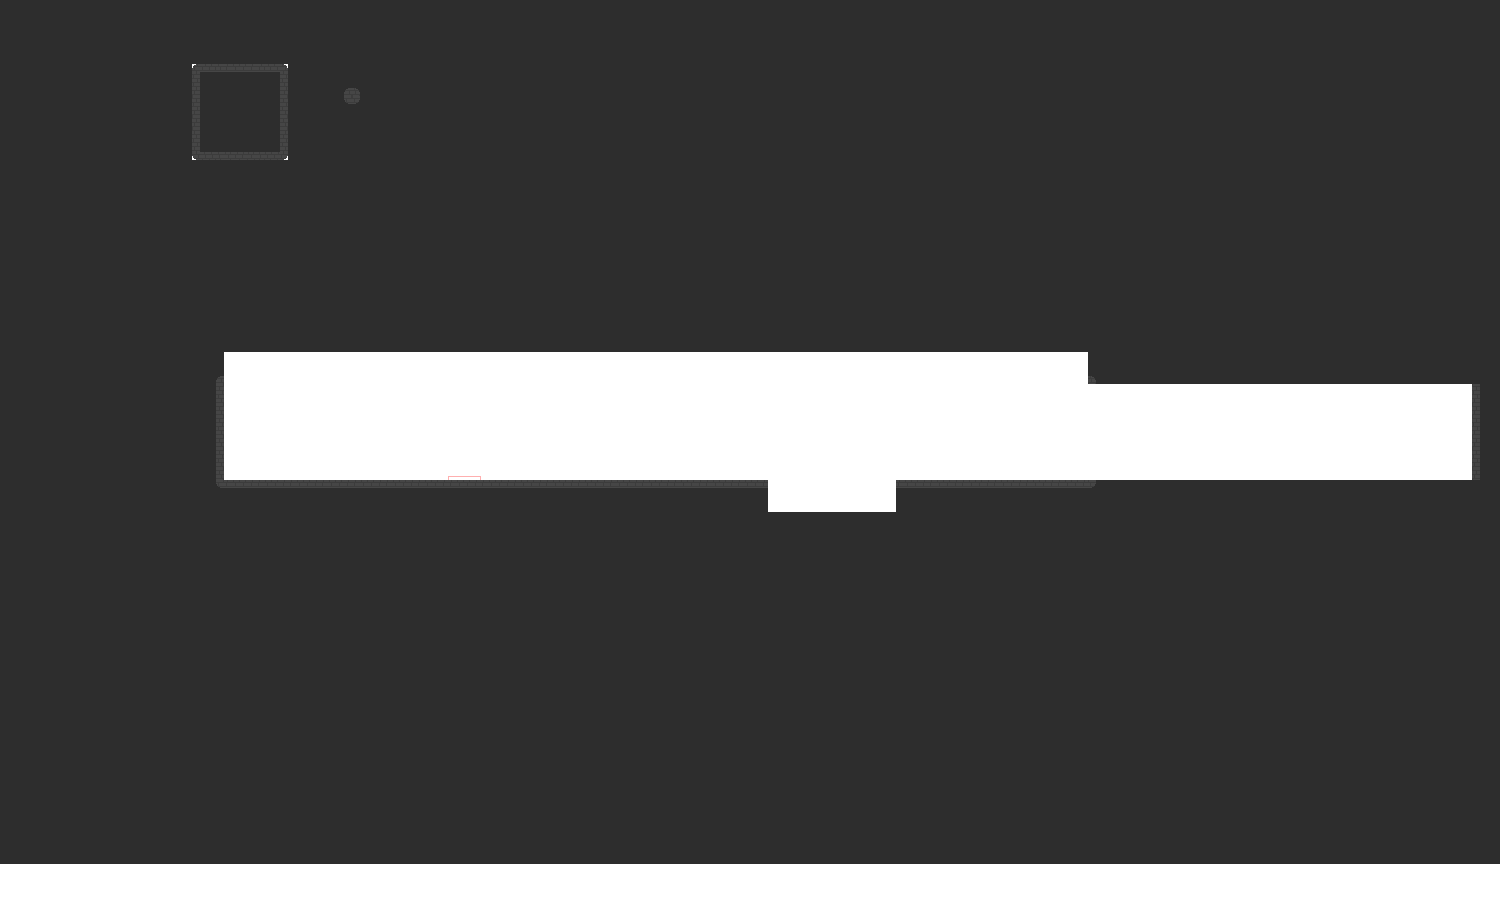
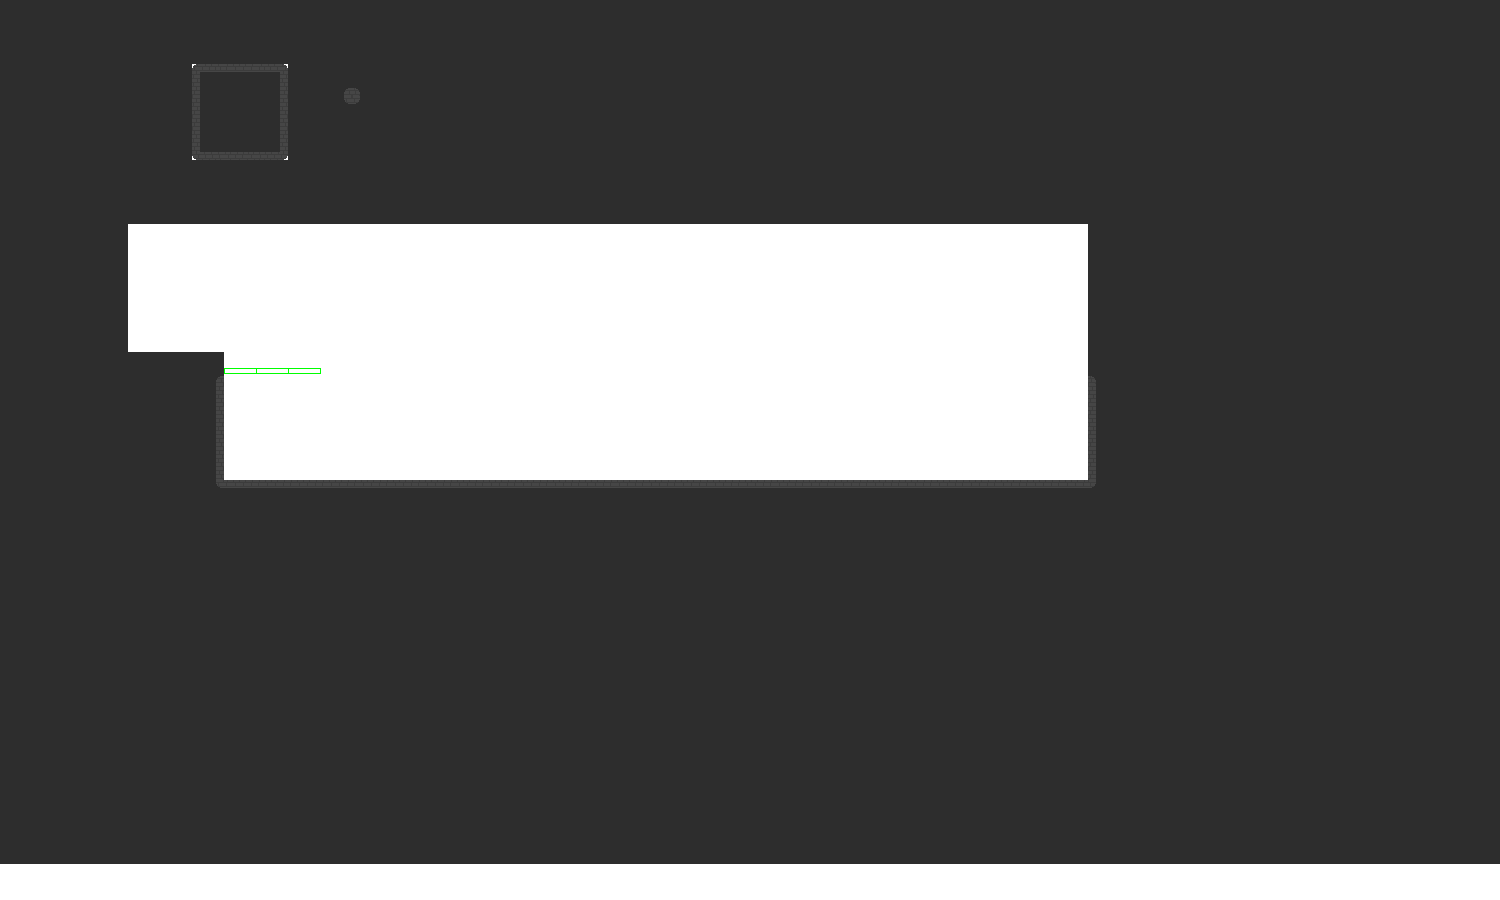
Started adding one way platforms. They can be added to any level and the player can walk on them. Next i need to make boxes touch the one way platform and have the player be able to press down to go through it

Changed region(s): [[0.0613, 0.2489, 0.736, 0.4044], [0.7053, 0.4044, 1.0, 0.56], [0.4907, 0.5289, 0.6133, 0.5911]]

diff --git a/src/LevelLayout.java b/src/LevelLayout.java
@@ -14,11 +14,11 @@ public class LevelLayout {
 
     private BufferedImage topLeftCorner, topRightCorner, bottomLeftCorner, bottomRightCorner, upWall, leftWall, rightWall, downWall, darkness, topLeftDarkness, topRightDarkness, bottomLeftDarkness, bottomRightDarkness;
     private BufferedImage combined;
-    private ArrayList<Rectangle> walls;
+    private ArrayList<Rectangle> walls, oneWayPlatforms;
     private String[][] levelData;
     private Engine engine;
     private ArrayList<Player> availableCharacters;
-    private boolean levelDone, swapped, resetting, paused;
+    private boolean levelDone, swapped, resetting;
     private int characterInControl;
     private ArrayList<Box> boxes;
     private HashMap<Opener, Door[]> openersAndDoors;
@@ -36,12 +36,12 @@ public class LevelLayout {
         levelDone = false;
         characterInControl = 0;
         swapped = false;
-        paused = false;
         boxes = new ArrayList<Box>();
         openersAndDoors = new HashMap<Opener, Door[]>();
         openers = new ArrayList<Opener>();
         doors = new ArrayList<Door>();
         spikes = new ArrayList<Spike>();
+        oneWayPlatforms = new ArrayList<Rectangle>();
         combined = new BufferedImage(1500, 900, BufferedImage.TYPE_INT_ARGB);
         setTileSet();
         setWalls();
@@ -75,7 +75,7 @@ public class LevelLayout {
         Graphics g = combined.getGraphics();
         walls = new ArrayList<Rectangle>();
         //make sure to put the things that won't be counted as walls here
-        String nonWallTiles = "pzekb/[|n^";
+        String nonWallTiles = "pzekb/[|n^<>-";
         for (int r = 0; r < 27; r++) {
             for (int c = 0; c < 47; c++) {
                 if (!nonWallTiles.contains(levelData[r][c]) && !levelData[r][c].contains("[") && !levelData[r][c].contains("/") && !levelData[r][c].contains("|")) {
@@ -148,6 +148,18 @@ public class LevelLayout {
                         g.drawRect(c * 32, r * 32 + 28, 32, 5);
                         g.setColor(Color.BLACK);
                         break;
+                    case "<", "-", ">":
+                        oneWayPlatforms.add(new Rectangle(c * 32, r * 32 + 16, 32, 5));
+                        g.setColor(Color.GREEN);
+                        g.drawRect(c * 32, r * 32 + 16, 32, 5);
+                        g.setColor(Color.BLACK);
+                        break;
+//                    case "-":
+//                        oneWayPlatforms.add(new OneWayPlatform(c * 32, r * 32 + 16, 1));
+//                        break;
+//                    case ">":
+//                        oneWayPlatforms.add(new OneWayPlatform(c * 32, r * 32 + 16, 1));
+//                        break;
                 }
                 if (levelData[r][c].contains("/")) {
                     openers.add(new Key(engine, levelData[r][c], c * 32 + 8, r * 32 + 9));
@@ -278,13 +290,6 @@ public class LevelLayout {
             }
         }
 
-        if (paused) {
-            System.out.println("Here");
-            g.setColor(Color.WHITE);
-            //This is temp will need to have image of text
-            g.setFont(new Font("Pixelfy Sans", Font.PLAIN, 60));
-            g.drawString("Press R to Reset", 500, 700);
-        }
 //        System.out.println("QWE");
     }
 
@@ -345,11 +350,8 @@ public class LevelLayout {
         return spikes;
     }
 
-    public boolean isPaused() {
-        return paused;
-    }
 
-    public void setPaused(boolean paused) {
-        this.paused = paused;
+    public ArrayList<Rectangle> getOneWayPlatforms() {
+        return oneWayPlatforms;
     }
 }

diff --git a/src/Player.java b/src/Player.java
@@ -99,7 +99,7 @@ public class Player implements KeyListener{
         }
 
         //if touching platform send player to top of the platform
-        if (touchingPlatform(engine.getLevelLayout().getWalls()) || touchingBox(engine.getLevelLayout().getBoxes()) || onPlayer(engine.getLevelLayout().getAvailableCharacters()) || onTopOfDoor(engine.getLevelLayout().getDoors())) {
+        if (touchingPlatform(engine.getLevelLayout().getWalls()) || touchingBox(engine.getLevelLayout().getBoxes()) || onPlayer(engine.getLevelLayout().getAvailableCharacters()) || onTopOfDoor(engine.getLevelLayout().getDoors()) || onOneWayPlatform(engine.getLevelLayout().getOneWayPlatforms())) {
             if (inAir) {
                 y = (int) (onCollisionBox.getY() - collisionBox.getHeight());
                 velocity = 4;
@@ -239,7 +239,15 @@ public class Player implements KeyListener{
     }
 
 
-    //Don't know if true but the player can most likely walk through walls if the wall is smaller than the player and the wall is at player's chest level
+    public boolean onOneWayPlatform(ArrayList<Rectangle> oneWayPlatforms) {
+        for (Rectangle platform: oneWayPlatforms) {
+            if (platform.contains(x, y + collisionBox.getHeight())) {
+                onCollisionBox = platform;
+                return true;
+            }
+        }
+        return false;
+    }
     public boolean touchingPlatform(ArrayList<Rectangle> rectangles) {
         for (Rectangle rect: rectangles) {
             if ((rect.getY() + rect.getHeight() >= collisionBox.getY() + collisionBox.getHeight()) && (rect.getY() <= collisionBox.getY() + collisionBox.getHeight()) && ((rect.getX() < collisionBox.getX() && rect.getX() + rect.getWidth() > collisionBox.getX()) || (rect.getX() < collisionBox.getX() + collisionBox.getWidth() && rect.getX() + rect.getWidth() > collisionBox.getX() + collisionBox.getWidth()))) {

diff --git a/src/LevelSelectionPanel.java b/src/LevelSelectionPanel.java
@@ -28,6 +28,7 @@ public class LevelSelectionPanel extends JPanel implements MouseListener {
         levels[0][4] = new Rectangle(450, 150, 50, 50);
         levels[1][0] = new Rectangle(50, 250, 50, 50);
         levels[1][1] = new Rectangle(150, 250, 50, 50);
+        levels[1][2] = new Rectangle(250, 250, 50, 50);
     }
     public void update() {
         engine.getTransitions().update();
